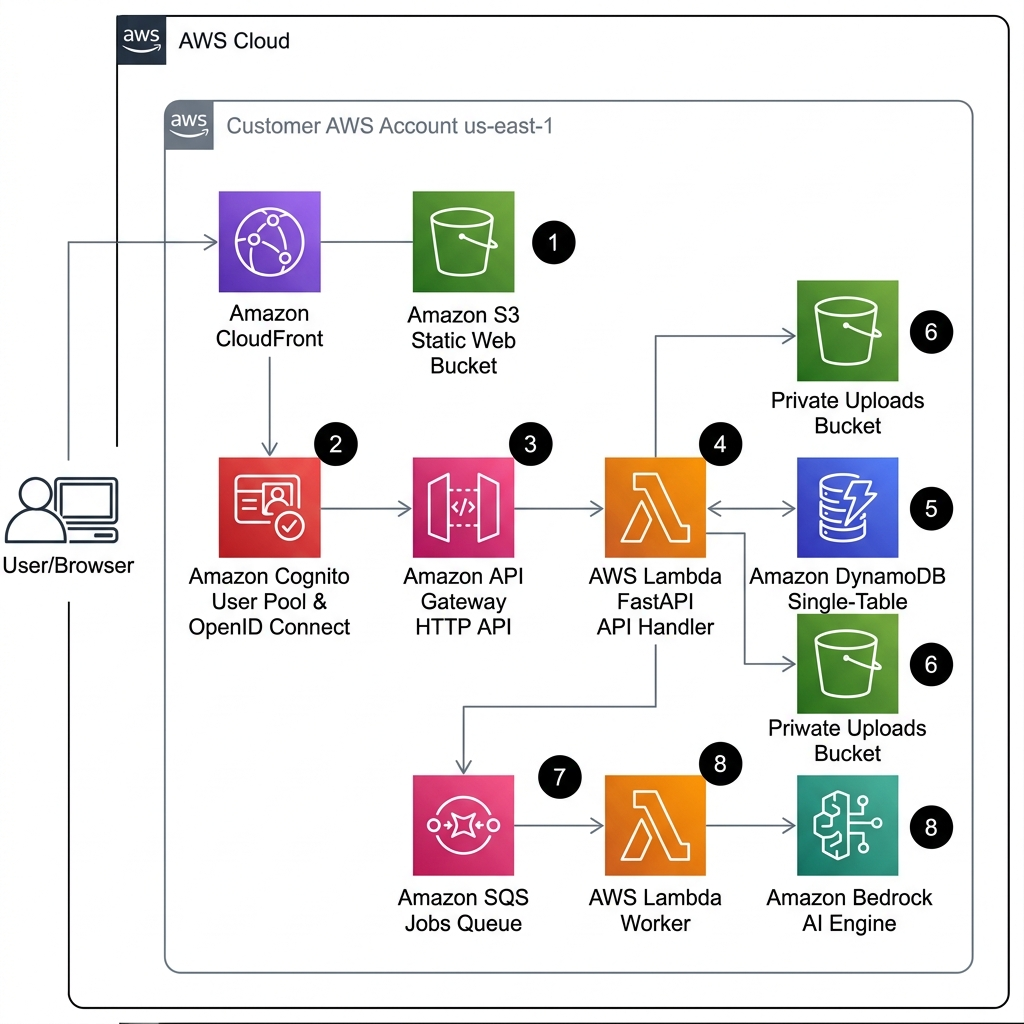
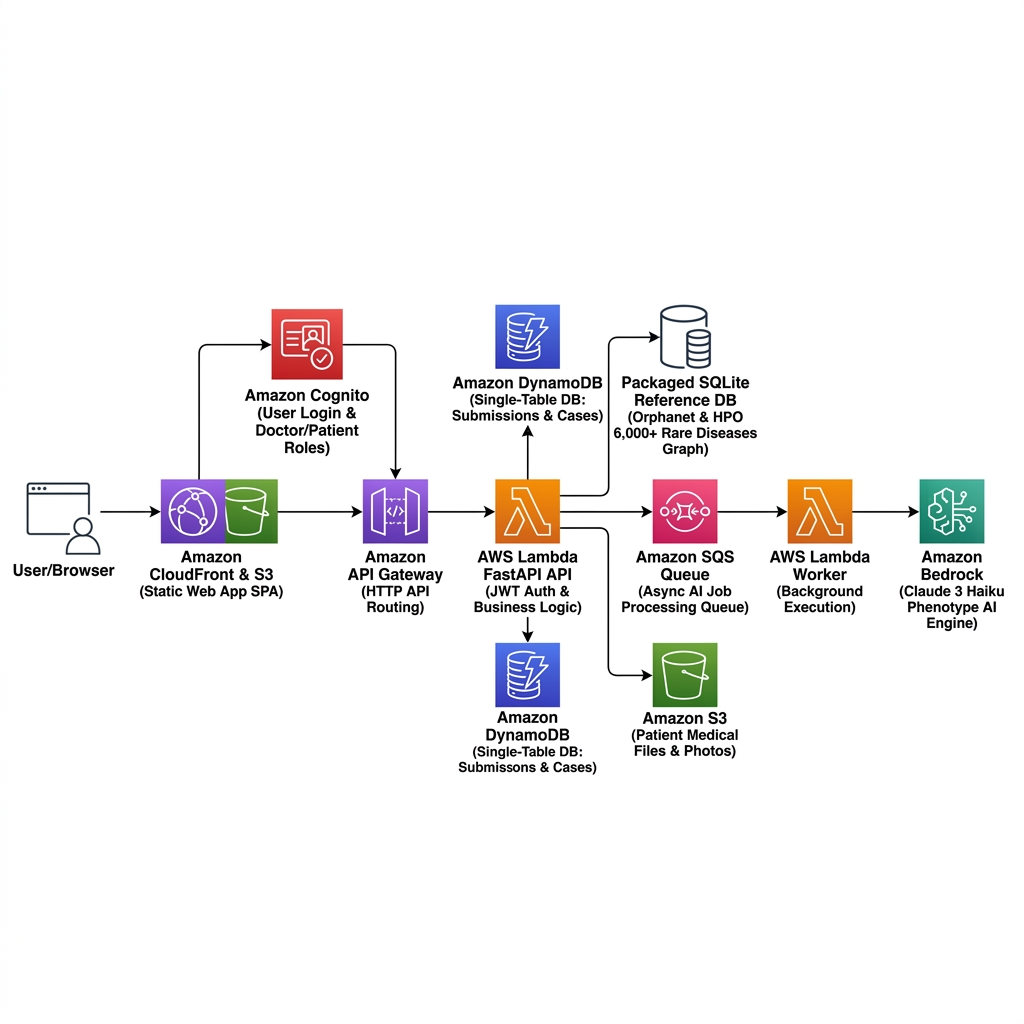
docs: update README with expanded, spacious AWS architecture diagram detailing dataset locations and service responsibilities

diff --git a/docs/aws-architecture.md b/docs/aws-architecture.md
@@ -1,86 +1,22 @@
-# Lumina SaaS — AWS Enterprise Architecture
+# Lumina AWS SaaS — Architecture Documentation
 
-## Architectural Data & Request Flow
+## Expanded AWS System Architecture
 
-```mermaid
-graph TB
-    subgraph Client ["Client Layer"]
-        Users["Users (Doctors / Patients)"]
-        Browser["Next.js Static Export SPA (Client Browser)"]
-    end
+![Expanded Official AWS Architecture Diagram](../docs/assets/aws_official_architecture_diagram.png)
 
-    subgraph FrontEnd ["User & Front-End Layer"]
-        CloudFront["Amazon CloudFront CDN"]
-        S3Web["Amazon S3 (Static Web Bucket)"]
-    end
+---
 
-    subgraph Identity ["Authentication & Identity Layer"]
-        CognitoUI["Amazon Cognito Hosted UI"]
-        CognitoPool["Amazon Cognito User Pool (Groups: doctor | patient)"]
-    end
+## Component & Dataset Responsibility Breakdown
 
-    subgraph Compute ["API & Compute Layer"]
-        APIGateway["Amazon API Gateway (HTTP API)"]
-        LambdaAPI["AWS Lambda (FastAPI API Handler)"]
-    end
-
-    subgraph Storage ["Data & Storage Layer"]
-        DynamoDB[("Amazon DynamoDB (Single-Table Design: PK, SK, GSI1, GSI2)")]
-        S3Uploads["Amazon S3 (Private Uploads Bucket)"]
-        RefSQLite[("Read-Only HPO / Orphanet SQLite Dataset")]
-    end
-
-    subgraph AsyncAI ["Asynchronous Processing & AI Layer"]
-        SQS["Amazon SQS (Jobs Queue + DLQ)"]
-        LambdaWorker["AWS Lambda (Worker Handler)"]
-        Bedrock["Amazon Bedrock (Claude 3 Haiku / Nova Micro)"]
-    end
-
-    subgraph Observability ["Observability, Security & Cost Guardrails"]
-        OIDC["AWS IAM OIDC (GitHub Actions Deploy)"]
-        CloudWatch["Amazon CloudWatch (7-Day Log Retention)"]
-        Budgets["AWS Budgets ($5/Month Alert Limit)"]
-    end
-
-    %% Data Flow Sequence
-    Users -->|1. Request Static Web App| CloudFront
-    CloudFront -->|OAC Signed Request| S3Web
-    Users -->|2. Authenticate Sign-in| CognitoUI
-    CognitoUI -->|Issues RS256 JWT Token| Browser
-
-    Browser -->|3. API Request with JWT Bearer Token| APIGateway
-    APIGateway -->|4. Forwards to API Handler| LambdaAPI
-    LambdaAPI -->|5. Verify Token & Enforce Group RBAC| CognitoPool
-
-    LambdaAPI -->|6. CRUD Operations & State Management| DynamoDB
-    LambdaAPI -->|7. Generate Presigned Upload/Download URLs| S3Uploads
-    LambdaAPI -->|8. Query HPO Reference Ontology| RefSQLite
-
-    LambdaAPI -->|9. Enqueue Async Extraction Job| SQS
-    SQS -->|10. Trigger Worker Message| LambdaWorker
-    LambdaWorker -->|11. Execute AI Phenotype Extraction| Bedrock
-    LambdaWorker -->|12. Write Results & Update Job Status| DynamoDB
-
-    LambdaAPI -.->|Log Traces| CloudWatch
-    LambdaWorker -.->|Log Traces| CloudWatch
-    OIDC -.->|Deploy Infrastructure| CloudFront
-```
-
-## AWS Component Specifications
-
-| Architecture Layer | AWS Service | Technical Role & Specification |
-| :--- | :--- | :--- |
-| **Front-End & CDN** | **Amazon CloudFront** | Global edge distribution serving static web bundle with Origin Access Control (OAC). |
-| | **Amazon S3 (Web Bucket)** | Private S3 bucket hosting Next.js static export bundle (`apps/web/out`). |
-| **Authentication** | **Amazon Cognito** | Hosted UI and User Pool managing OAuth flow and issuing RS256 signed JWT tokens with `doctor` and `patient` groups. |
-| **API & Compute** | **Amazon API Gateway** | HTTP API Gateway with CORS support routing requests to serverless compute. |
-| | **AWS Lambda (FastAPI)** | Serverless Python container executing FastAPI API logic, validating JWT claims, and managing submission lifecycle. |
-| **Data & Storage** | **Amazon DynamoDB** | Single-table DynamoDB (`lumina-app`) storing Users, Submissions, Messages, Cases, and Jobs using `PK`, `SK`, `GSI1`, `GSI2`. |
-| | **Amazon S3 (Uploads)** | Private bucket for patient photos and lab reports accessed exclusively via time-limited presigned URLs. |
-| | **SQLite Reference DB** | Read-only Orphanet and HPO medical ontology graph packaged directly within Lambda environment. |
-| **Async & AI** | **Amazon SQS** | Asynchronous job queue for background document processing + Dead Letter Queue (DLQ). |
-| | **AWS Lambda (Worker)** | Event-driven SQS worker executing AI extraction, HPO validation, and scoring tasks idempotently. |
-| | **Amazon Bedrock** | GenAI foundation model runtime (Claude 3 Haiku / Nova Micro) with a $0 fallback `DEMO` mode default. |
-| **Governance & Security**| **AWS IAM & OIDC** | Least-privilege execution roles and keyless GitHub Actions OIDC deployment role. |
-| | **Amazon CloudWatch** | Serverless log aggregation with 7-day retention to prevent storage bloat. |
-| | **AWS Budgets** | Hard cost alert triggering email notifications if spending exceeds $5/month. |
+| Service / Asset | Lumina Application Role & Location |
+| :--- | :--- |
+| **Amazon CloudFront & S3** | **Static Web SPA Hosting**: Serves static HTML/JS/CSS export bundle globally (`apps/web/out`). |
+| **Amazon Cognito** | **User Login & Role Enforcement**: Manages sign-in/sign-up and issues RS256 JWT tokens (`doctor` & `patient` groups). |
+| **Amazon API Gateway** | **HTTP API Gateway**: Handles CORS, routing, and forwards Bearer tokens to Lambda. |
+| **AWS Lambda (FastAPI API)** | **Backend Business Logic**: Verifies JWT claims, executes submission CRUD, case linking, and referral releases. |
+| **Amazon DynamoDB** | **Single-Table Application Database**: Stores Submissions, Cases, Message History, and User Profiles (`PK`, `SK`, `GSI1`, `GSI2`). |
+| **Amazon S3 (Uploads Bucket)** | **Private Encrypted Medical Storage**: Stores patient photos and lab PDFs accessed via short-lived Presigned URLs. |
+| **Packaged SQLite Reference DB** | **Orphanet & HPO Medical Knowledge Graph**: Bundled read-only database (`orpha.sqlite`) containing 6,000+ rare disease profiles, HPO phenotype associations, and gene relationships directly inside the Lambda execution environment. |
+| **Amazon SQS Jobs Queue** | **Async AI Processing Queue**: Decouples heavy AI document processing and scoring tasks. |
+| **AWS Lambda Worker** | **Background Execution**: Consumes SQS records, invokes Bedrock AI, validates HPO IDs against local HPO graph, and writes results to DynamoDB. |
+| **Amazon Bedrock** | **GenAI Extraction Engine**: Runs Claude 3 Haiku / Nova Micro for structured phenotype extraction with $0 default `DEMO` fallback. |

diff --git a/README.md b/README.md
@@ -29,20 +29,24 @@
 
 <div align="center">
 
-![Official AWS Architecture Diagram](docs/assets/aws_official_architecture_diagram.png)
+![Expanded Official AWS Architecture Diagram](docs/assets/aws_official_architecture_diagram.png)
 
 </div>
 
-### Architecture Request & Execution Steps
+### Component & Dataset Responsibility Breakdown
 
-1. **Static Web Serving**: The user browser loads the Next.js static export SPA from **Amazon CloudFront CDN** backed by a private **Amazon S3 Static Web Bucket** via Origin Access Control (OAC).
-2. **Identity & OAuth**: The user authenticates via **Amazon Cognito Hosted UI & User Pool**, receiving an RS256-signed JWT token carrying role claims (`doctor` or `patient`).
-3. **API Entry Point**: API calls pass to **Amazon API Gateway** (HTTP API) with the JWT `Authorization` header.
-4. **Serverless Compute**: API Gateway routes requests to **AWS Lambda (FastAPI Handler)**, which validates JWT claims and executes business logic.
-5. **Persistence**: Lambda reads/writes application state to a single-table **Amazon DynamoDB** (`lumina-aws-prod-app`).
-6. **Private File Storage**: Uploaded patient photos and lab reports write directly to **Amazon S3 (Private Uploads Bucket)** using time-limited Presigned URLs.
-7. **Async Job Queue**: Heavy extraction tasks are enqueued to an **Amazon SQS Jobs Queue**.
-8. **AI Worker & Bedrock**: **AWS Lambda Worker** consumes SQS jobs, invokes **Amazon Bedrock** (Claude 3 Haiku / Nova Micro) for phenotype extraction, validates HPO IDs against the local **Orphanet/HPO SQLite** ontology graph, and writes results to DynamoDB.
+| Service / Asset | Lumina Application Role & Location |
+| :--- | :--- |
+| **Amazon CloudFront & S3** | **Static Web SPA Hosting**: Serves static HTML/JS/CSS export bundle globally (`apps/web/out`). |
+| **Amazon Cognito** | **User Login & Role Enforcement**: Manages sign-in/sign-up and issues RS256 JWT tokens (`doctor` & `patient` groups). |
+| **Amazon API Gateway** | **HTTP API Gateway**: Handles CORS, routing, and forwards Bearer tokens to Lambda. |
+| **AWS Lambda (FastAPI API)** | **Backend Business Logic**: Verifies JWT claims, executes submission CRUD, case linking, and referral releases. |
+| **Amazon DynamoDB** | **Single-Table Application Database**: Stores Submissions, Cases, Message History, and User Profiles (`PK`, `SK`, `GSI1`, `GSI2`). |
+| **Amazon S3 (Uploads Bucket)** | **Private Encrypted Medical Storage**: Stores patient photos and lab PDFs accessed via short-lived Presigned URLs. |
+| **Packaged SQLite Reference DB** | **Orphanet & HPO Medical Knowledge Graph**: Bundled read-only database (`orpha.sqlite`) containing 6,000+ rare disease profiles, HPO phenotype associations, and gene relationships directly inside the Lambda execution environment. |
+| **Amazon SQS Jobs Queue** | **Async AI Processing Queue**: Decouples heavy AI document processing and scoring tasks. |
+| **AWS Lambda Worker** | **Background Execution**: Consumes SQS records, invokes Bedrock AI, validates HPO IDs against local HPO graph, and writes results to DynamoDB. |
+| **Amazon Bedrock** | **GenAI Extraction Engine**: Runs Claude 3 Haiku / Nova Micro for structured phenotype extraction with $0 default `DEMO` fallback. |
 
 ---
 
